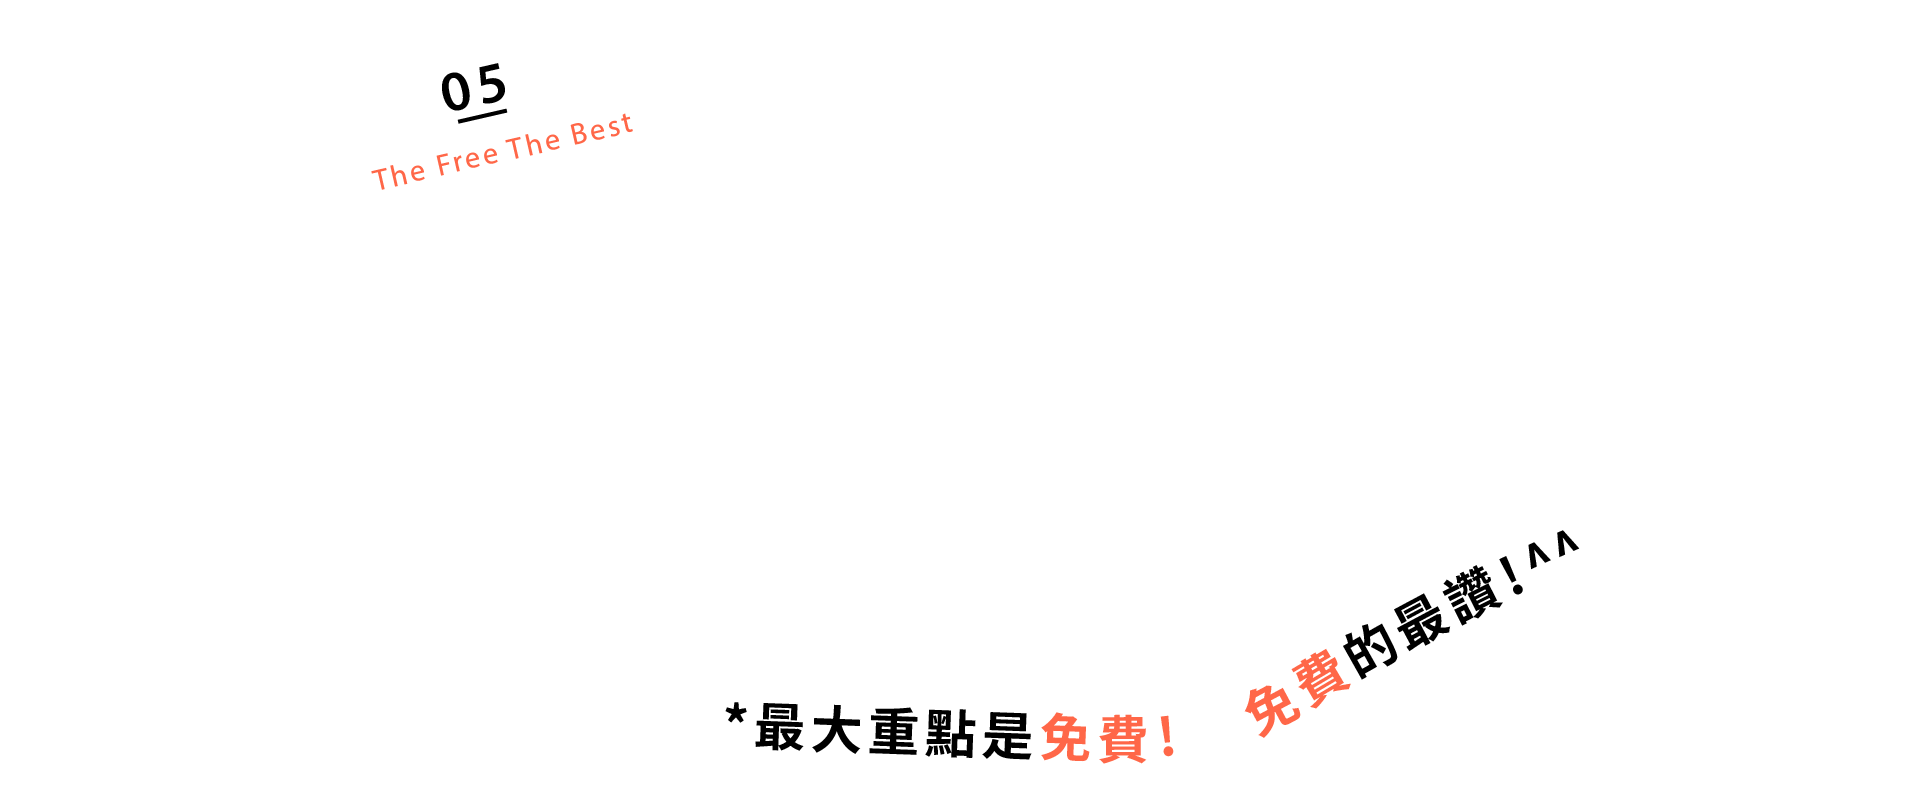
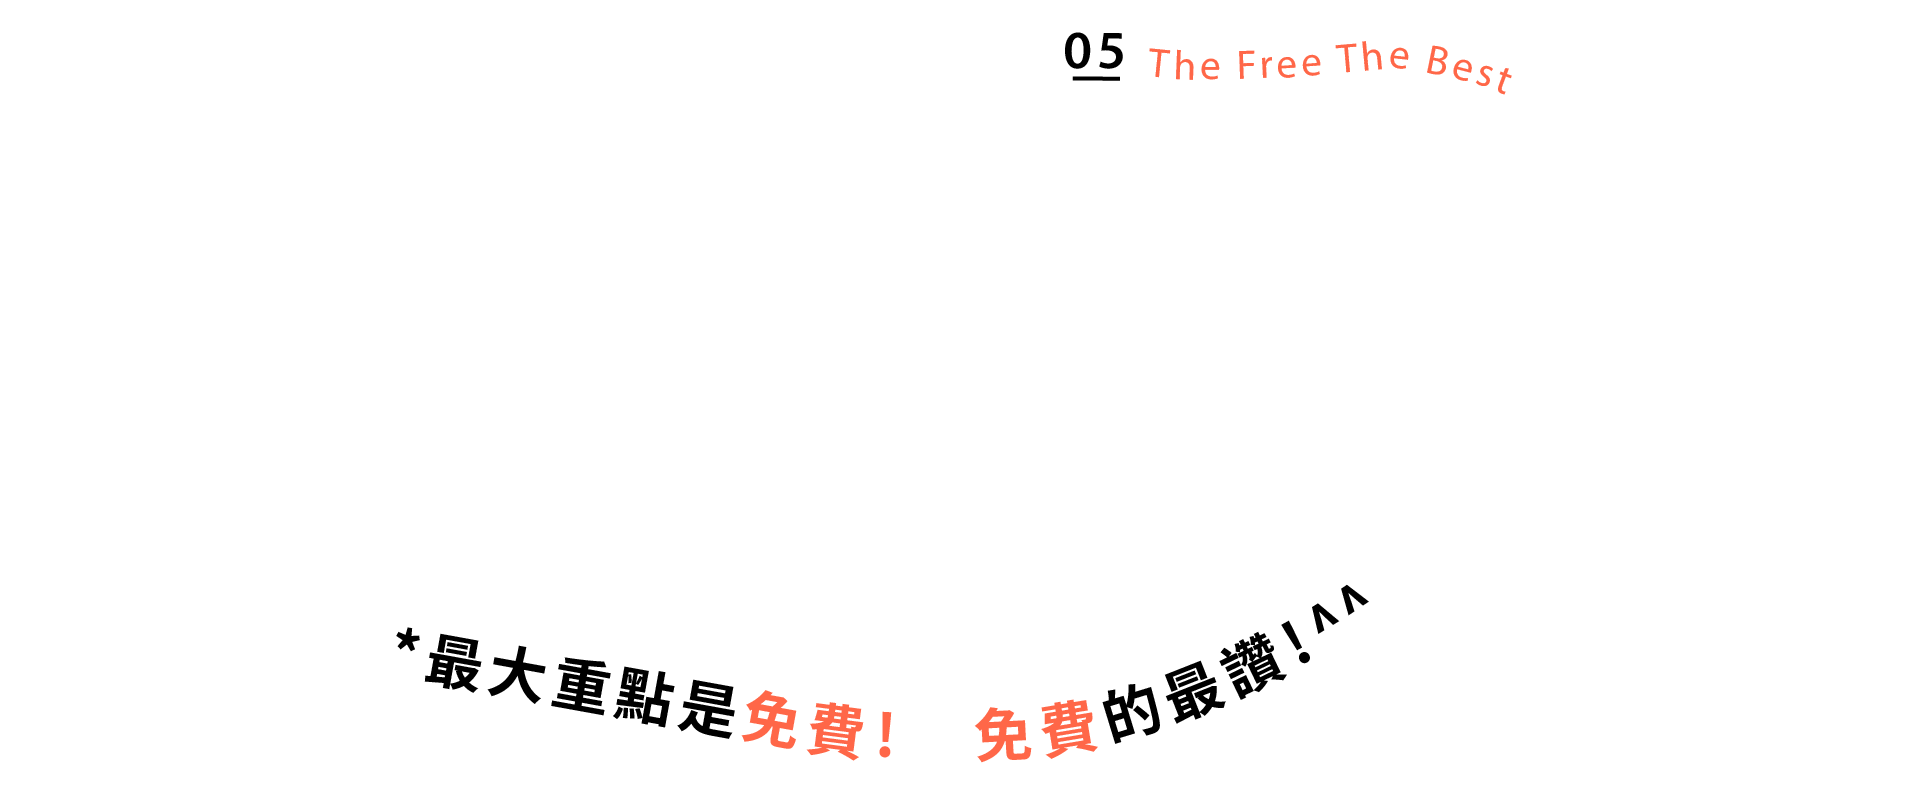
change desktop images

diff --git a/index.html b/index.html
@@ -95,7 +95,7 @@
         <section class="content">
             <div class="container">
                 <div class="landing__text">
-                    <img class="landing__bag" src="img/bigbag.png" alt="">
+                    <!-- <img class="landing__bag" src="img/bigbag.png" alt=""> -->
                     <div class="landing__words"></div>
                 </div>
                 <div class="steps__text" id="steps__text">
@@ -131,7 +131,7 @@
                 
                 <div class="reasons__text" id="reasons__text">
                     <div class="reasons__title">
-                        <img src="img/reasontitle.png" alt="">
+                        <img src="img/reasontitle.png" alt="">
                     </div>
                     <div class="trigger__reasons__digit"></div>
                     <div class="reasons__item reasons__digit reasons__item1" id="reasons__item1">
@@ -176,14 +176,15 @@
                     </p>
                 </div>
 
-                <div class="past__text" id="past__text">
+                <div class="past__imgtitle" id="past__text"></div>
+                <!-- <div class="past__text" id="past__text">
                     <div class="past__left">
                         <div class="past__title"></div>
                     </div>
                     <div class="past__right">
                         <p>可能有人是第一次認識好初漫報，所以這邊還是很貼心的稍微介紹 一下，以下是我們 2023 年以雙月刊方式發行的六期紙本刊物。</p>
                     </div>
-                </div>
+                </div> -->
                 <div class="splide" aria-label="Splide Basic HTML Example">
                     <div class="splide__arrows">
                         <button class="splide__arrow splide__arrow--prev">

diff --git a/style/style.css b/style/style.css
@@ -498,6 +498,16 @@ img {
     width: 10vw;
 }
 /* past */
+.past__imgtitle {
+    background-image: url("../img/pasttitle.png");
+    background-repeat: no-repeat;
+    background-position: left 0 top 0;
+    background-size: contain;
+    position: relative;
+    width: 100vw;
+    height: 20vw;
+    margin: 0 0 5vw;
+}
 .past__text {
     display: flex;
     flex-direction: column;
@@ -793,7 +803,7 @@ img {
     .landing__text {
         background-image: url("../img/p1.png");
         background-position: left 0 top 14vw;
-        height: 70vw;
+        height: 80vw;
     }
     .landing__text_en {
         font-size: 1.2rem;
@@ -939,6 +949,12 @@ img {
         width: 7vw;
     }
     /* past */
+    .past__imgtitle {
+        background-image: url("../img/pasttitle.png");
+        width: 100vw;
+        height: 20vw;
+        margin: 0 0 5vw;
+    }
     .past__text {
         display: flex;
         flex-direction: row;
